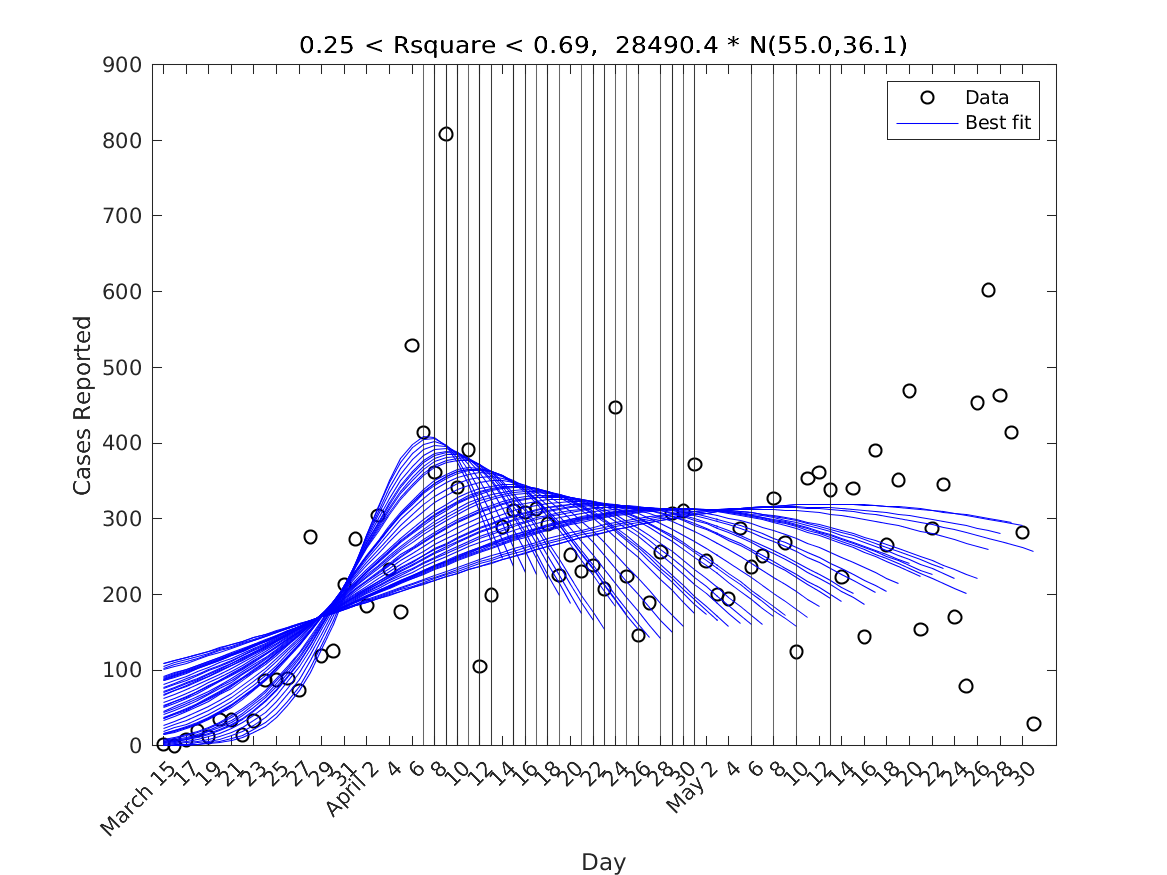
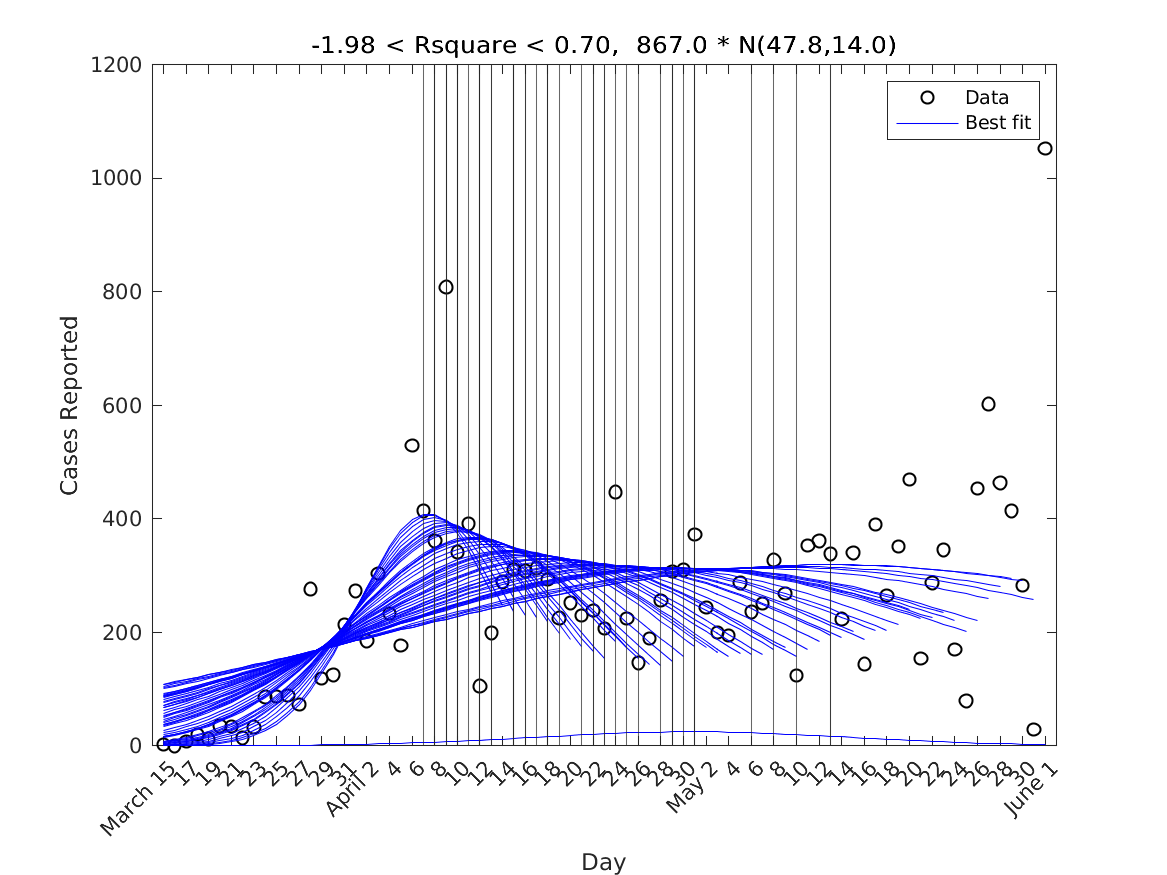
daily update

diff --git a/docs/bokeh/flowers.html b/docs/bokeh/flowers.html
@@ -34,14 +34,14 @@
           
           
             
-              <div class="bk-root" id="c810105f-221a-4136-984a-da2b43bc4085" data-root-id="1002"></div>
+              <div class="bk-root" id="ff860bb3-dc39-499f-b891-07ca6f081099" data-root-id="1002"></div>
             
           
         
       
       
         <script type="application/json" id="1149">
[2 lines of base64/hex data omitted]
         </script>
         <script type="text/javascript">
           (function() {
@@ -51,7 +51,7 @@
                   function embed_document(root) {
                     
                   var docs_json = document.getElementById('1149').textContent;
-                  var render_items = [{"docid":"b4a35212-ee78-4524-bdb5-8d7c33074746","root_ids":["1002"],"roots":{"1002":"c810105f-221a-4136-984a-da2b43bc4085"}}];
+                  var render_items = [{"docid":"1f306c3c-db6f-42f5-b850-ca65dbf7c39a","root_ids":["1002"],"roots":{"1002":"ff860bb3-dc39-499f-b891-07ca6f081099"}}];
                   root.Bokeh.embed.embed_items(docs_json, render_items);
                 
                   }

diff --git a/docs/covidcurvefit.html b/docs/covidcurvefit.html
@@ -81,7 +81,7 @@ ans =
 
   datetime
 
-   02-Jun-2020 07:01:22
+   02-Jun-2020 10:02:25
 
 Warning: Table variable names were modified to make them valid MATLAB
 identifiers. The original names are saved in the VariableDescriptions property. 
@@ -114,12 +114,8 @@ xticks(rawdata.Day(1:2:length(rawdata.Day)))
 xticklabels(rawdata.Date(1:2:length(rawdata.Date)))
 xtickangle(45)
 saveas(handle3,<span class="string">'evolution'</span>,<span class="string">'png'</span>)
-</pre><pre class="codeoutput error">Error using plot
-Invalid data argument.
-
-Error in covidcurvefit (line 27)
-plot(rawdata.Day,rawdata.CasesReported,'ko')
-</pre><h2 id="3">Current Gaussian curve fit to local data</h2><p>plot the curve fit with all available data</p><pre class="codeinput">handle1=figure(1);
+</pre><pre class="codeoutput">Current plot held
+</pre><img vspace="5" hspace="5" src="covidcurvefit_01.png" alt=""> <h2 id="3">Current Gaussian curve fit to local data</h2><p>plot the curve fit with all available data</p><pre class="codeinput">handle1=figure(1);
 plot(rawdata.Day,rawdata.CasesReported,<span class="string">'ko'</span>,rawdata.Day,PredictedValues,<span class="string">'b-'</span>)
 xline(idmax);
 legend(<span class="string">'Data'</span>,<span class="string">'Best fit'</span>)
@@ -130,7 +126,7 @@ xticks(rawdata.Day(1:2:length(rawdata.Day)))
 xticklabels(rawdata.Date(1:2:length(rawdata.Date)))
 xtickangle(45)
 saveas(handle1,<span class="string">'simplefit'</span>,<span class="string">'png'</span>)
-</pre><h2 id="4">Peak day change with updated data</h2><p>plot the sensitivity of the peak day to the available data starting from day 30</p><pre class="codeinput">handle2=figure(2);
+</pre><img vspace="5" hspace="5" src="covidcurvefit_02.png" alt=""> <h2 id="4">Peak day change with updated data</h2><p>plot the sensitivity of the peak day to the available data starting from day 30</p><pre class="codeinput">handle2=figure(2);
 plot(rawdata.Day,PeakDay,<span class="string">'k'</span>)
 xlabel(<span class="string">'Day'</span>)
 ylabel(<span class="string">'Peak Day'</span>)
@@ -145,7 +141,7 @@ saveas(handle2,<span class="string">'peakday'</span>,<span class="string">'png'<
 
 <span class="comment">% write table</span>
 writetable(splitvars(table(rawdata,PredictedValues,PeakDay)),<span class="string">'data.csv'</span>)
-</pre><h2 id="5">bokeh interactive plot</h2><p>
+</pre><img vspace="5" hspace="5" src="covidcurvefit_03.png" alt=""> <h2 id="5">bokeh interactive plot</h2><p>
 <iframe src="bokeh/flowers.html"
     sandbox="allow-same-origin allow-scripts"
     width="100%"

diff --git a/parse.py b/parse.py
@@ -70,7 +70,7 @@ if (lastupdate  < updatedate) :
         elif iii == 49:
           writer.writerow([iii, 'May ' + idrow[0],idrow[1], idrow[2].replace(',','')])
         elif iii > 0:
-          writer.writerow([iii, idrow[0],idrow[1], idrow[2].replace(',','')])
+          writer.writerow([iii, idrow[0],idrow[1].replace(',',''), idrow[2].replace(',','')])
 else:
   print "NO NEW DATA FOUND"
   print("Last Modified Time : ", lastupdate )
